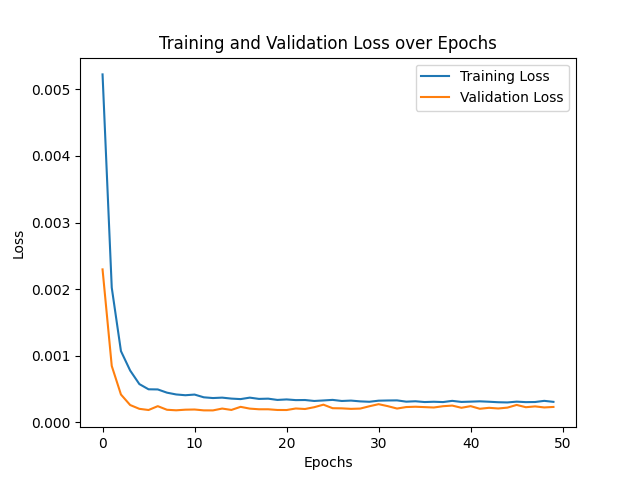
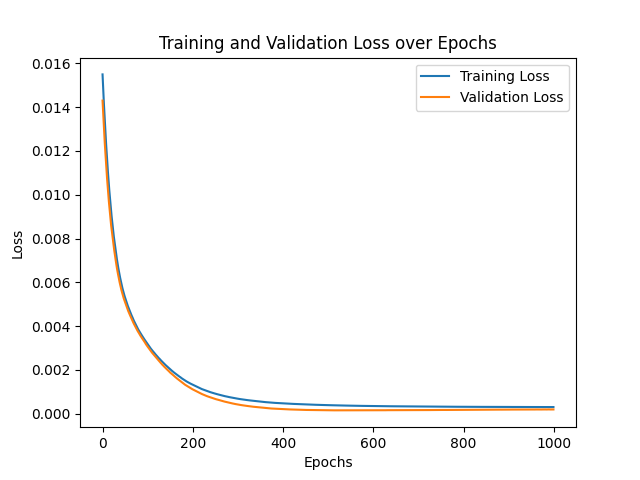
Reduce the learning rate of the Adam optimizer

diff --git a/4_train_model.py b/4_train_model.py
@@ -54,11 +54,11 @@ model = tf.keras.models.Sequential([
     tf.keras.layers.Dense(1)
 ])
 
-# Compile the model
-model.compile(optimizer='adam', loss='mse')
+# Compile the model with a lower learning rate
+model.compile(optimizer=tf.keras.optimizers.Adam(learning_rate=0.00001), loss='mse')
 
 # Train the model
-history = model.fit(X_train_scaled, y_train_scaled, epochs=50, validation_split=0.2, verbose=1)
+history = model.fit(X_train_scaled, y_train_scaled, epochs=1000, validation_split=0.2, verbose=1)
 
 # Save the model
 model.save('strava_model.h5')

diff --git a/README.md b/README.md
@@ -58,7 +58,7 @@ Aggregate various files / pages if needed.
 
 	python3 5_use_model.py
 
-	Predicted time for 10 km,  600 D+, race 0: 01:21
-	Predicted time for 31 km, 2300 D+, race 1: 04:23
-	Predicted time for  5 km,  850 D+, race 0: 01:09
-	Predicted time for 10 km,   90 D+, race 0: 00:45
+    Predicted time for 10 km, 600 D+, race 0: 01:23
+    Predicted time for 31 km, 2300 D+, race 1: 04:15
+    Predicted time for 5 km, 850 D+, race 0: 01:16
+    Predicted time for 10 km, 90 D+, race 0: 00:52
